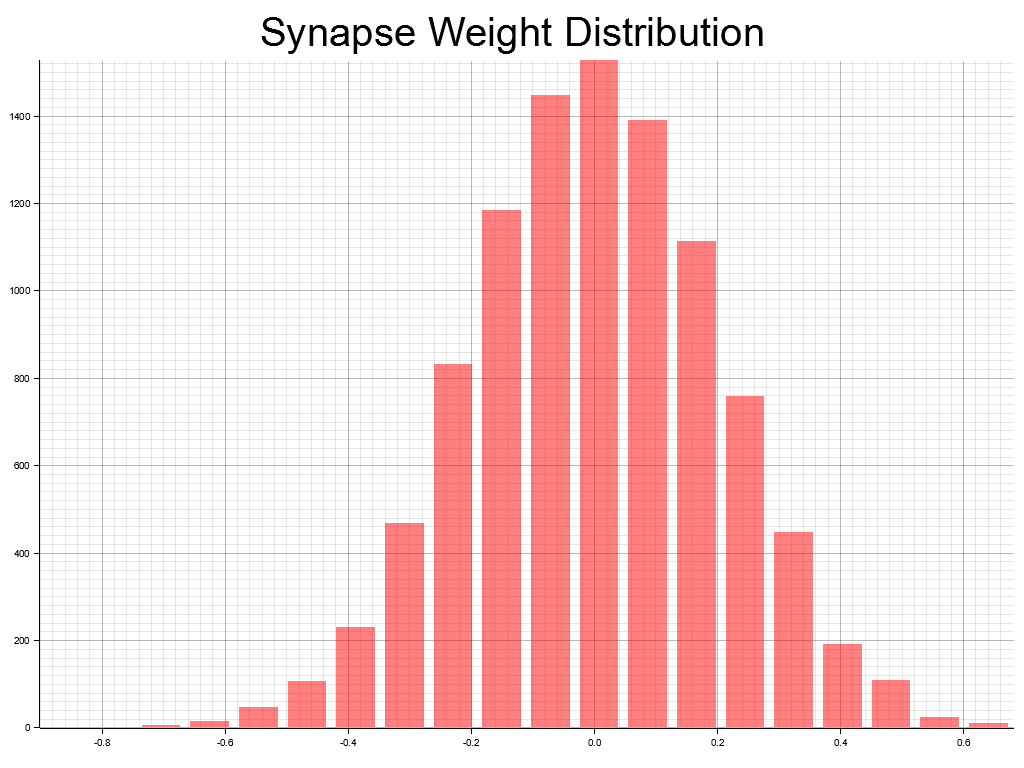
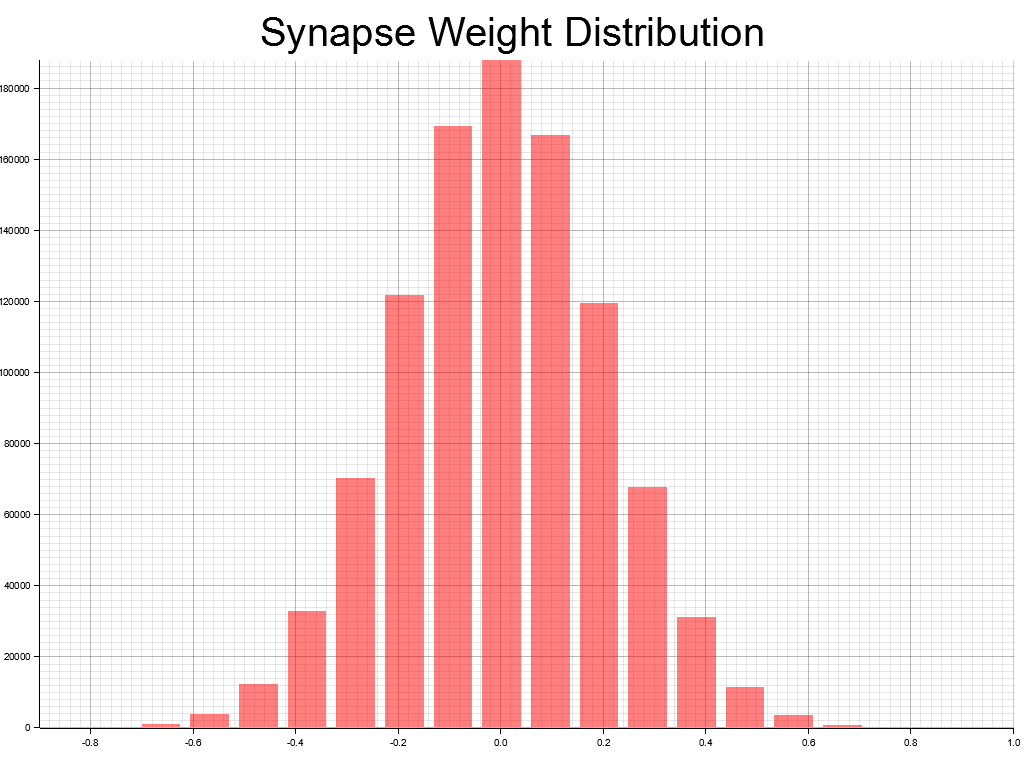
Adjust reward average duration and network parameters for improved simulation dynamics; refactor learning rate scaling based on average reward

diff --git a/src/reward_system.rs b/src/reward_system.rs
@@ -1,8 +1,10 @@
-use crate::constants::{LEARNING_RATE, MAX_SYNAPSE_WEIGHT, MIN_SYNAPSE_WEIGHT, REWARD_AVERAGE_DURATION};
-use crate::neuron::NeuronBehavior;
-use std::sync::{Arc, RwLock};
+use crate::constants::{
+    LEARNING_RATE, MAX_SYNAPSE_WEIGHT, MIN_SYNAPSE_WEIGHT, REWARD_AVERAGE_DURATION,
+};
 use crate::datastructures::exponential_rolling_mean::EmaMeanF32;
+use crate::neuron::NeuronBehavior;
 use crate::spike_event::SpikeEvent;
+use std::sync::{Arc, RwLock};
 
 pub struct RewardSystem {
     learning_rate: f32,
@@ -32,17 +34,34 @@ impl RewardSystem {
         time: f32,
         spike_events: &Vec<Arc<RwLock<SpikeEvent>>>,
     ) {
-
         // We will iterate all the synapses so only send synapses which have been active lately.
         let average_reward = self.average_reward.get_mean(time).unwrap_or(0.0);
         let weighted_average_reward = average_reward * (time / REWARD_AVERAGE_DURATION).min(1.0);
-        let delta_reward = self.last_reward - average_reward * weighted_average_reward;
+
+        // If the average is close to 0 we scale up the learning rate to introduce randomness
+        // This will be done using the formula: scaled_learning_rate = learning_rate / (|average_reward| + epsilon)
+        // where epsilon is a small constant to prevent division by zero.
+        let scaled_learning_rate =  {
+            if average_reward.abs() < 0.15 && time > REWARD_AVERAGE_DURATION * 2.0 {
+                self.learning_rate / (average_reward.abs() + f32::EPSILON).powf(2.0)
+            } else if average_reward.abs() > 0.6 {
+                // Scale down learning rate exponentially when average reward is high to stabilize learning
+                self.learning_rate * (1.0 - average_reward.abs())
+            }
+            else {
+                self.learning_rate
+            }
+        };
+
+
+        let delta_reward = self.last_reward - weighted_average_reward;
 
         // Record delta error for plotting regardless of whether we update.
         self.delta_error_history.push(delta_reward);
 
-        if delta_reward.abs() < 0.01 {return}
-
+        if delta_reward.abs() < 0.01 {
+            return;
+        }
 
         let mut delta_sum = 0.0;
         for spike_event in spike_events {
@@ -53,24 +72,46 @@ impl RewardSystem {
             // --- This is the missing part ---
             // 1. Get Presynaptic Activity: x_j(t)
             let presynaptic_activity = event.presynaptic_ema_firing_rate_before_spike;
-            let post_synaptic_neuron_deviation =
-                {
-                    let read = synapse.read().unwrap();
-                    let post_synaptic_neuron = read.postsynaptic_neuron.read().unwrap();
-                    let first_spike_after = post_synaptic_neuron.first_spike_after(event.delivery_time - f32::EPSILON);
-                    if first_spike_after.is_none() {
-                        continue;
-                    }
-                    first_spike_after.unwrap().membrane_potential_at_spike - post_synaptic_neuron.ema_activation_average(time)
-                };
-            let delta = self.learning_rate * presynaptic_activity * post_synaptic_neuron_deviation * delta_reward;
+            let post_synaptic_neuron_deviation = {
+                let read = synapse.read().unwrap();
+                let post_synaptic_neuron = read.postsynaptic_neuron.read().unwrap();
+                let first_spike_after =
+                    post_synaptic_neuron.first_spike_after(event.delivery_time - f32::EPSILON);
+                if first_spike_after.is_none() {
+                    //println!("No spike after time {} for neuron {}", event.delivery_time, post_synaptic_neuron.id);
+                    None
+                } else {
+                    Some(
+                        first_spike_after.unwrap().membrane_potential_at_spike
+                            - post_synaptic_neuron
+                                .ema_activation_average(event.delivery_time - f32::EPSILON),
+                    )
+                }
+            };
+            let delta = {
+                if post_synaptic_neuron_deviation.is_none() {
+                    -scaled_learning_rate * delta_reward // Punish for silent synapse
+                } else {
+                    scaled_learning_rate
+                        * presynaptic_activity
+                        * post_synaptic_neuron_deviation.unwrap()
+                        * delta_reward
+                }
+            };
             delta_sum += delta;
             //println!("Delta Reward: {}, Presynaptic Activity: {}, Post Synaptic Deviation: {}, Weight Change: {}", delta_reward, presynaptic_activity, post_synaptic_neuron_deviation, delta);
 
             let current_synapse_weight = synapse.read().unwrap().weight;
-            synapse.write().unwrap().weight = (current_synapse_weight + delta).clamp(MIN_SYNAPSE_WEIGHT, MAX_SYNAPSE_WEIGHT);
+            synapse.write().unwrap().weight =
+                (current_synapse_weight + delta).clamp(MIN_SYNAPSE_WEIGHT, MAX_SYNAPSE_WEIGHT);
         }
-        println!("Total weight change this reward: {}, And average: {}, num spikes: {}", delta_sum, delta_sum/(spike_events.len() as f32), spike_events.len());
+        println!(
+            "Total weight change this reward: {}, And average: {}, num spikes: {}, scaled learning rate: {}",
+            delta_sum,
+            delta_sum / (spike_events.len() as f32),
+            spike_events.len(),
+            scaled_learning_rate
+        );
         self.last_reward = 0.0;
     }
 

diff --git a/src/main.rs b/src/main.rs
@@ -138,7 +138,7 @@ fn plot_two_series_over_time(
 fn main() {
     println!("Spiking Neural Network Simulation");
     let mut rng = thread_rng(); // Non-deterministic seed for variability
-    let mut network = Network::create_dense(100, &mut rng);
+    let mut network = Network::create_dense(1000, &mut rng);
     let mut simulation = Simulation::new(1.0, network.neurons.clone());
 
     network.plot_synapse_weights("synapse_weights_start.png").unwrap();
@@ -148,8 +148,8 @@ fn main() {
     const OUTPUT_NEURON_IDX: usize = 2; // Target output
     const REWARD_MAGNITUDE: f32 = 1.0; // Changed to f32
 
-    const NUM_TRIALS: u32 = 20_000;
-    const TRIAL_WINDOW_STEPS: u32 = 25;
+    const NUM_TRIALS: u32 = 10_000;
+    const TRIAL_WINDOW_STEPS: u32 = 50;
 
     println!("Starting simulation... Target: Neuron {} spikes for Input {}, not for Input {}.",
              OUTPUT_NEURON_IDX, INPUT_NEURON_A_IDX, INPUT_NEURON_B_IDX);
@@ -175,23 +175,11 @@ fn main() {
             network.neurons[OUTPUT_NEURON_IDX].read().unwrap().time_of_last_fire()
         };
 
-        // pct_rand should decrease exponentially over trials
-        let _pct_rand = (-0.3 * (trial as f32)).exp();
-
-        // --- This is the inner trial loop ---
         simulation.step();
-        //simulation.random_noise(0.0, 1.0, 1.0, &mut rng);
         for _ in 0..TRIAL_WINDOW_STEPS {
             simulation.input_external_stimuli(network.neurons[input_idx].clone(), 1.0);
-            //if pct_rand > 0.0001 {
-            //    simulation.random_noise(-pct_rand*5.0, pct_rand*5.0, pct_rand, &mut rng);
-            //}
             simulation.step();
-            // DO NOT apply reward here
         }
-        // --- End of inner trial loop ---
-
-        // Now, check the *overall* outcome of the trial
         println!("Evaluating trial {}: Input Neuron {}, Go Signal: {}, Started at {}", trial + 1, input_idx, is_go_signal, last_spike_time_before_trial);
 
         for fire in network.neurons[OUTPUT_NEURON_IDX].read().unwrap().last_spike_times.iter().filter(|p| p.time > last_spike_time_before_trial) {
@@ -201,7 +189,6 @@ fn main() {
         let output_spiked_during_trial = {
             network.neurons[OUTPUT_NEURON_IDX].read().unwrap().time_of_last_fire() > last_spike_time_before_trial
         };
-        //println!("Output spiked during trial: {}", output_spiked_during_trial);
 
         let reward: f32;
         if is_go_signal {

diff --git a/src/constants.rs b/src/constants.rs
@@ -8,5 +8,5 @@ pub const MIN_NEURON_DECAY_RATE: f32 = 0.015; // Minimum neuron decay rate
 pub const MAX_NEURON_DECAY_RATE: f32 = 0.05;
 pub const MIN_NEURON_THRESHOLD: f32 = 1.0; // Minimum neuron firing threshold
 pub const MAX_NEURON_THRESHOLD: f32 = 1.0; // Maximum neuron
-pub const REWARD_AVERAGE_DURATION: f32 = 100.0; // 20 ms
+pub const REWARD_AVERAGE_DURATION: f32 = 1000.0; // 20 ms
 pub const LEARNING_RATE: f32 = 0.001;
